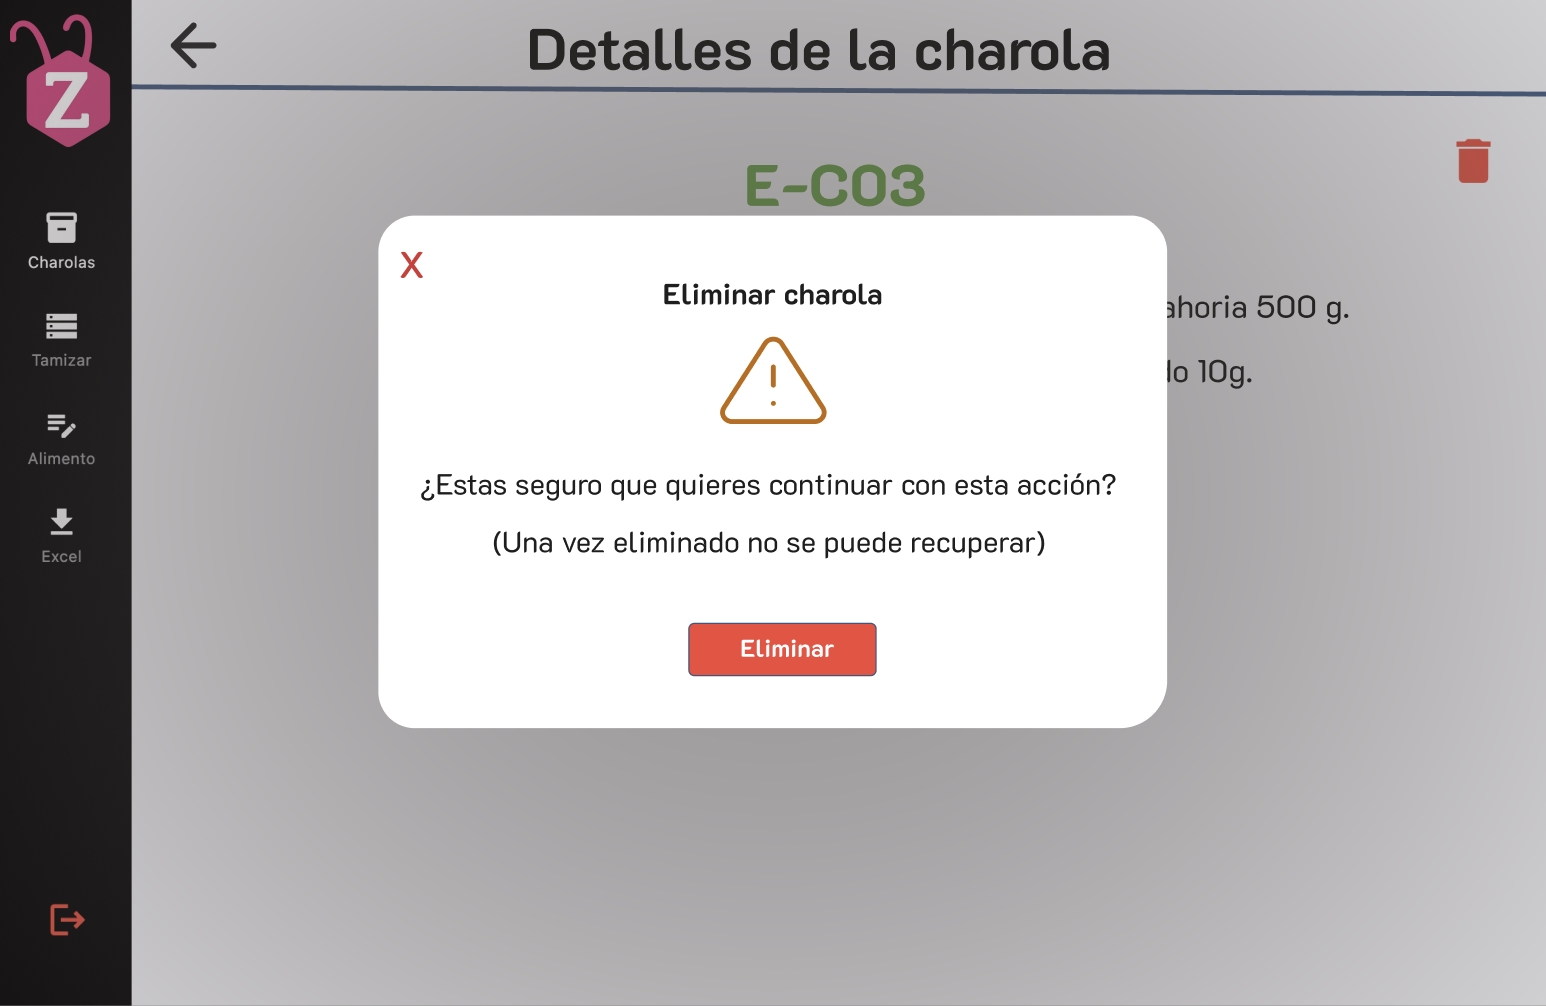
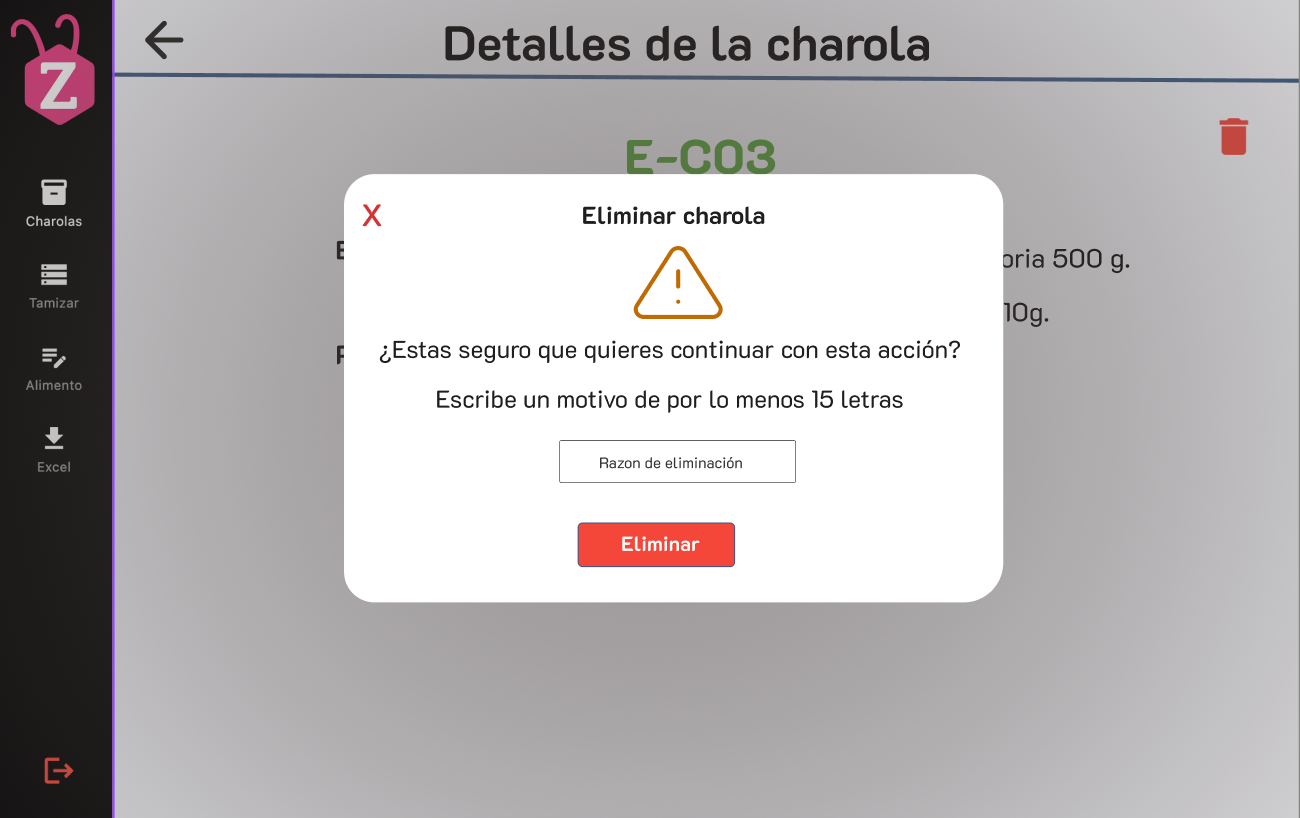
Modificado RF8 para interactuar con RF 39

Changed region(s): [[0.2462, 0.2139, 0.8923, 0.7641], [0.0, 0.0, 1.0, 1.0], [0.4615, 0.1528, 0.6154, 0.2139]]

diff --git a/documentation/docs/proyectos/larvas/documentacion/requisitos/RF8.md b/documentation/docs/proyectos/larvas/documentacion/requisitos/RF8.md
@@ -11,6 +11,10 @@ Como usuario del sistema, quiero borrar los datos de una charola en la base de d
 
   **Criterios de Aceptación:**
   - Antes de eliminar una charola, se debe mostrar un mensaje de confirmación.
+  - Se debe solicitar una justificación de eliminación de mínimo 15 caracteres.
+  - La justificación de eliminación no puede exceder los 200 caracteres.
+  - Si no se da una justificación, el botón para enviar datos estará inactivo.
+  - Se debe guardar el nombre de la charola eliminada junto a la fecha y usuario responsable.
   - La eliminación debe reflejarse de inmediato en la base de datos sin afectar otros registros.
 
 ---
@@ -32,7 +36,6 @@ sequenceDiagram
     participant ViewModel as ViewModel
     participant Domain as Domain
     participant Repository as Repository
-    participant APIClient as API Client (MVVM)
     participant APIService as API Service (MVVM)
     participant Controller as Controller
     participant Model as Model
@@ -42,27 +45,23 @@ sequenceDiagram
         Usuario ->> View: Presiona "Eliminar Charola"
         activate View
 
-        View ->> ViewModel: eliminarCharola(id)
+        View ->> ViewModel: eliminarCharola(id, razon)
         deactivate View
         activate ViewModel
 
-        ViewModel ->> Domain: eliminarCharola(id)
+        ViewModel ->> Domain: eliminarCharola(id, razon)
         deactivate ViewModel
         activate Domain
 
-        Domain ->> Repository: eliminarCharola(id)
+        Domain ->> Repository: eliminarCharola(id, razon)
         deactivate Domain
         activate Repository
 
-        Repository ->> APIClient: eliminarCharola(id)
+        Repository ->> APIService: eliminarCharola(id, usuario, razon)
         deactivate Repository
-        activate APIClient
-
-        APIClient ->> APIService: POST  /charolas/{id}
-        deactivate APIClient
         activate APIService
 
-        APIService ->> Controller: POST /charolas/{id}
+        APIService ->> Controller: POST /charolas/{id}(usuario, razon)
         deactivate APIService
         activate Controller
 
@@ -86,12 +85,8 @@ sequenceDiagram
         deactivate Controller
         activate APIService
 
-        APIService -->> APIClient: Eliminación exitosa
+        APIService -->> Repository: Eliminación exitosa
         deactivate APIService
-        activate APIClient
-
-        APIClient -->> Repository: Eliminación exitosa
-        deactivate APIClient
         activate Repository
 
         Repository -->> Domain: Resultado de eliminación
@@ -109,39 +104,31 @@ sequenceDiagram
         View -->> Usuario: Mostrar mensaje "Charola eliminada correctamente"
         deactivate View
 
-    else Sin conexión a internet, 101 | POST
+    else Sin conexión a internet, 503 | POST
         Usuario ->> View: Presiona "Eliminar Charola"
         activate View
 
-        View ->> ViewModel: eliminarCharola(id)
+        View ->> ViewModel: eliminarCharola(id, razon)
         deactivate View
         activate ViewModel
 
-        ViewModel ->> Domain: eliminarCharola(id)
+        ViewModel ->> Domain: eliminarCharola(id, razon)
         deactivate ViewModel
         activate Domain
 
-        Domain ->> Repository: eliminarCharola(id)
+        Domain ->> Repository: eliminarCharola(id, razon)
         deactivate Domain
         activate Repository
 
-        Repository ->> APIClient: eliminarCharola(id)
+        Repository ->> APIService: eliminarCharola(id, usuario, razon)
         deactivate Repository
-        activate APIClient
-
-        APIClient ->> APIService: POST /charolas/{id}
-        deactivate APIClient
         activate APIService
 
-        APIService -->> APIClient: Error 101
+        APIService -->> Repository: Error 503
         deactivate APIService
-        activate APIClient
-
-        APIClient -->> Repository: Error 101
-        deactivate APIClient
         activate Repository
 
-        Repository -->> Domain: Error 101
+        Repository -->> Domain: Error 503
         deactivate Repository
         activate Domain
 
@@ -160,27 +147,23 @@ sequenceDiagram
         Usuario ->> View: Presiona "Eliminar Charola"
         activate View
 
-        View ->> ViewModel: eliminarCharola(id)
+        View ->> ViewModel: eliminarCharola(id, razon)
         deactivate View
         activate ViewModel
 
-        ViewModel ->> Domain: eliminarCharola(id)
+        ViewModel ->> Domain: eliminarCharola(id, razon)
         deactivate ViewModel
         activate Domain
 
-        Domain ->> Repository: eliminarCharola(id)
+        Domain ->> Repository: eliminarCharola(id, razon)
         deactivate Domain
         activate Repository
 
-        Repository ->> APIClient: eliminarCharola(id)
+        Repository ->> APIService: eliminarCharola(id, usuario, razon)
         deactivate Repository
-        activate APIClient
-
-        APIClient ->> APIService: POST /charolas/{id}
-        deactivate APIClient
         activate APIService
 
-        APIService ->> Controller: POST /charolas/{id}
+        APIService ->> Controller: POST /charolas/{id}(usuario, razon)
         deactivate APIService
         activate Controller
 
@@ -204,12 +187,8 @@ sequenceDiagram
         deactivate Controller
         activate APIService
 
-        APIService -->> APIClient: Error 500
+        APIService -->> Repository: Error 500
         deactivate APIService
-        activate APIClient
-
-        APIClient -->> Repository: Error 500
-        deactivate APIClient
         activate Repository
 
         Repository -->> Domain: Error 500
@@ -257,3 +236,4 @@ sequenceDiagram
 | **1.3**             | Diagramas de actividades   | 23/5/2025  | Juan Eduardo Rosas Cerón |
 | **1.4**             | Se corrigió mockup  | 29/5/2025  | Mariana Juárez |
 | **1.5**             | Se agregaron los pull request de front y back | 29/5/2025  | Sofía Osorio |
+| **2.0**             | Se modificó la HU para interactuar con el RF39 | 06/6/2025  | Sofía Osorio |
